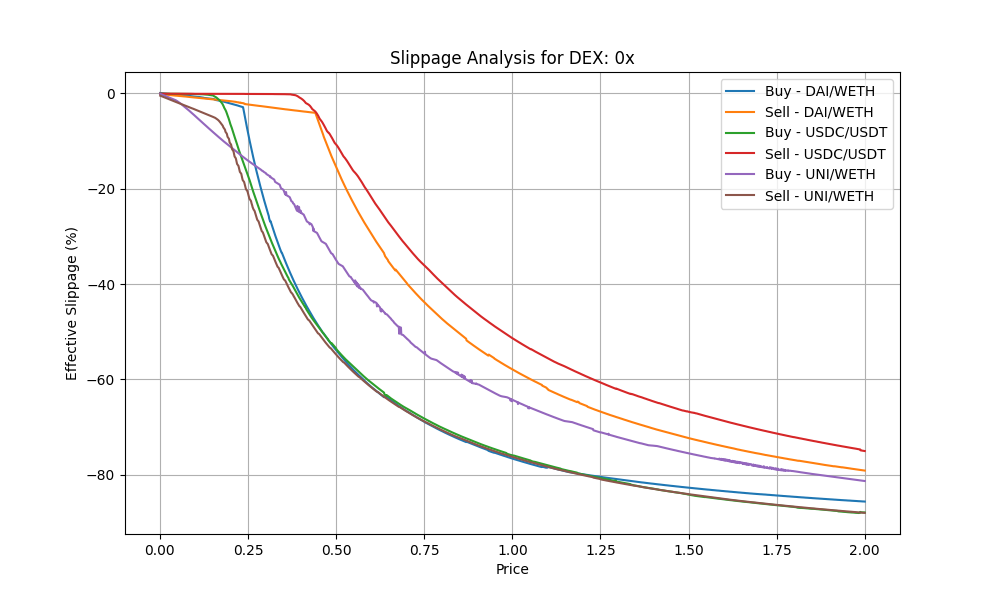
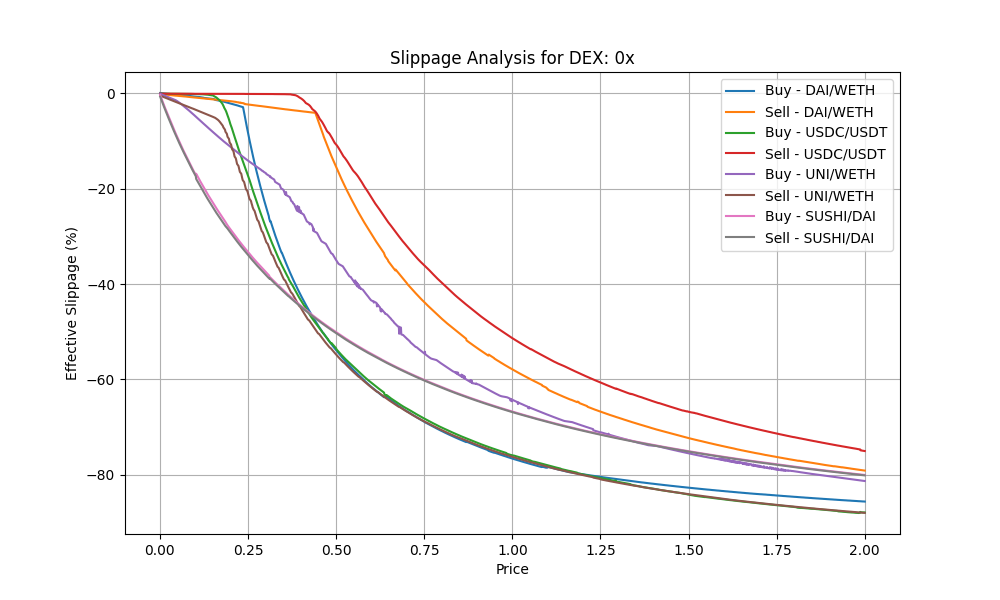
chore: another 0x data

diff --git a/liquidity-slippage/scripts/0x-slip.js b/liquidity-slippage/scripts/0x-slip.js
@@ -8,7 +8,7 @@ const { amountTradeXSlippage } = require("../utils/common");
 dotenv.config({ path: path.resolve(__dirname, "../.env") });
 const ZEROx_API_KEY = process.env.ZEROx_API_KEY;
 
-const DATA_INDEX = 2;
+const DATA_INDEX = 3;
 
 const API_URL = "https://api.0x.org/swap/v1/quote";
 const headers = { "0x-api-key": ZEROx_API_KEY };
